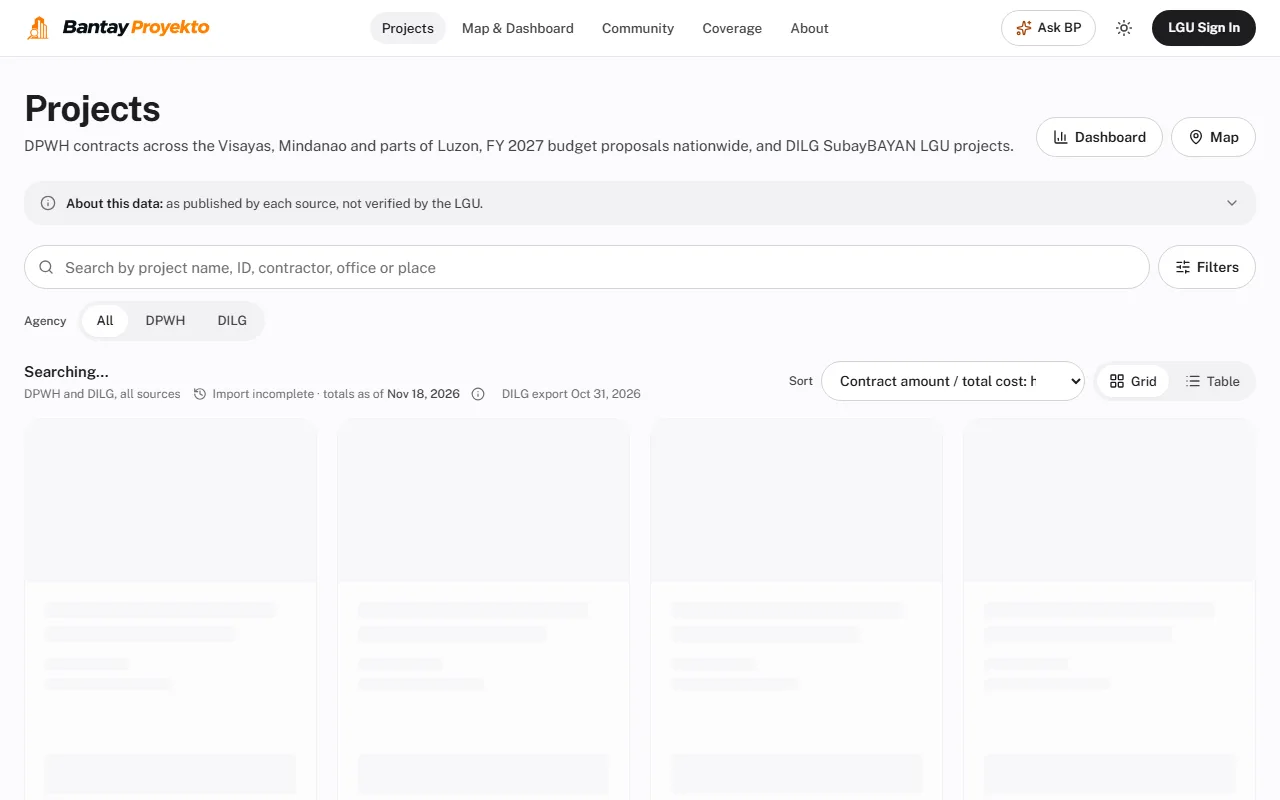
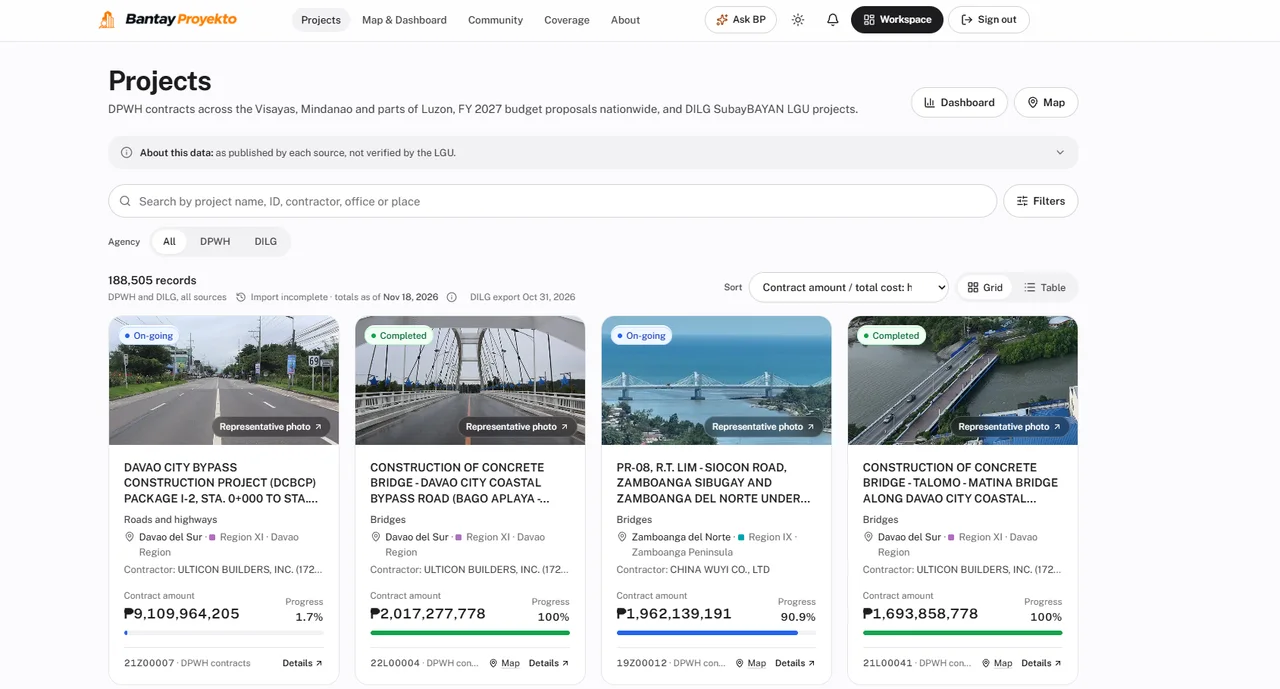
docs: new Projects and coverage screenshots; update the record count

diff --git a/README.md b/README.md
@@ -47,7 +47,7 @@
 
 | | |
 |---|---|
-| 🔎 **Find** | Search more than 175,000 DPWH and DILG project records, with filters, sorting, grid and table views. |
+| 🔎 **Find** | Search more than 185,000 DPWH and DILG project records, with filters, sorting, grid and table views. |
 | 🗺 **See** | A map and a dashboard on one page, sharing the same filters. |
 | 💬 **Discuss** | A live public community: discussions, replies, votes, anonymous posting and role pills. |
 | 📣 **Report** | Send a concern about a project, then follow it from *Sent* to *Resolved*. |
@@ -117,7 +117,7 @@ Signed-in people can send a concern about a project at `/report`, with photos. E
 Live record counts, a region breakdown and a dot map of contract locations, read from cached aggregates. On a first
 visit, an intro animation counts up from 0 to 100%.
 
-<img src="docs/images/landing-coverage.webp" width="640" alt="&quot;Where the records are&quot; section: contract counts per region beside a dot map of contract locations">
+<img src="docs/images/landing-coverage.webp" width="640" alt="&quot;Where the records are&quot; section: contract counts for the Luzon, Visayas and Mindanao regions beside a dot map of contract locations">
 
 ### Ask BP assistant
 A chat assistant for questions about the directory, built on Groq tool calling (free tier). The model never writes
